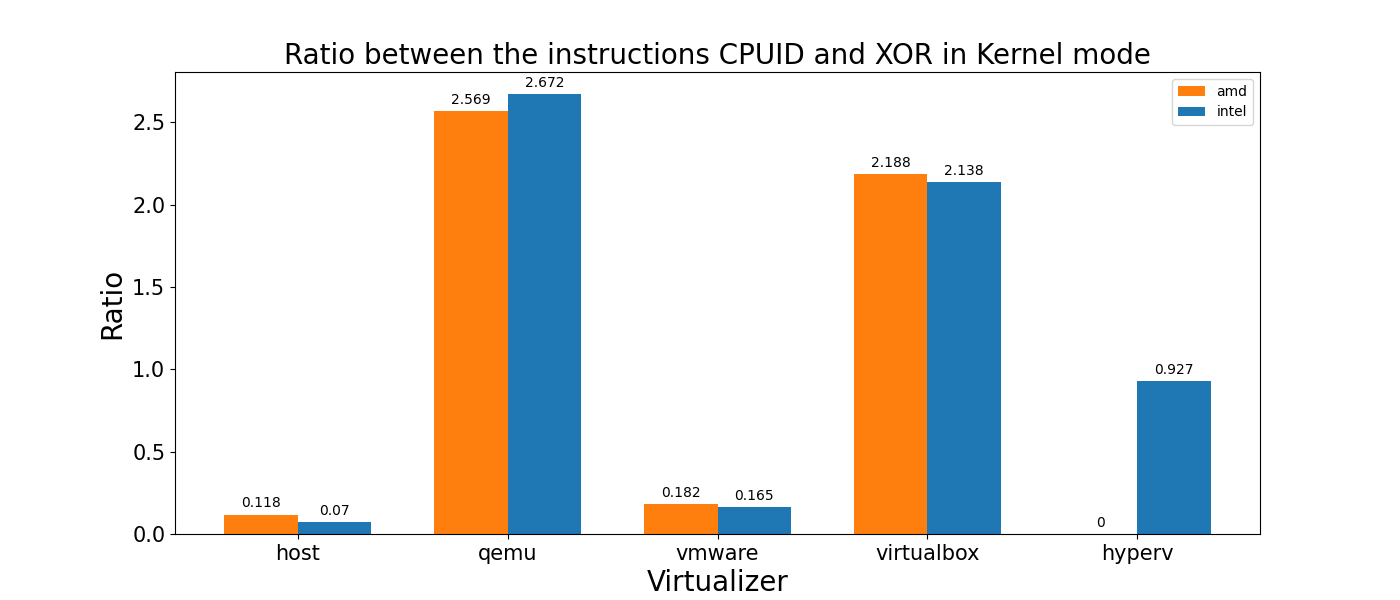
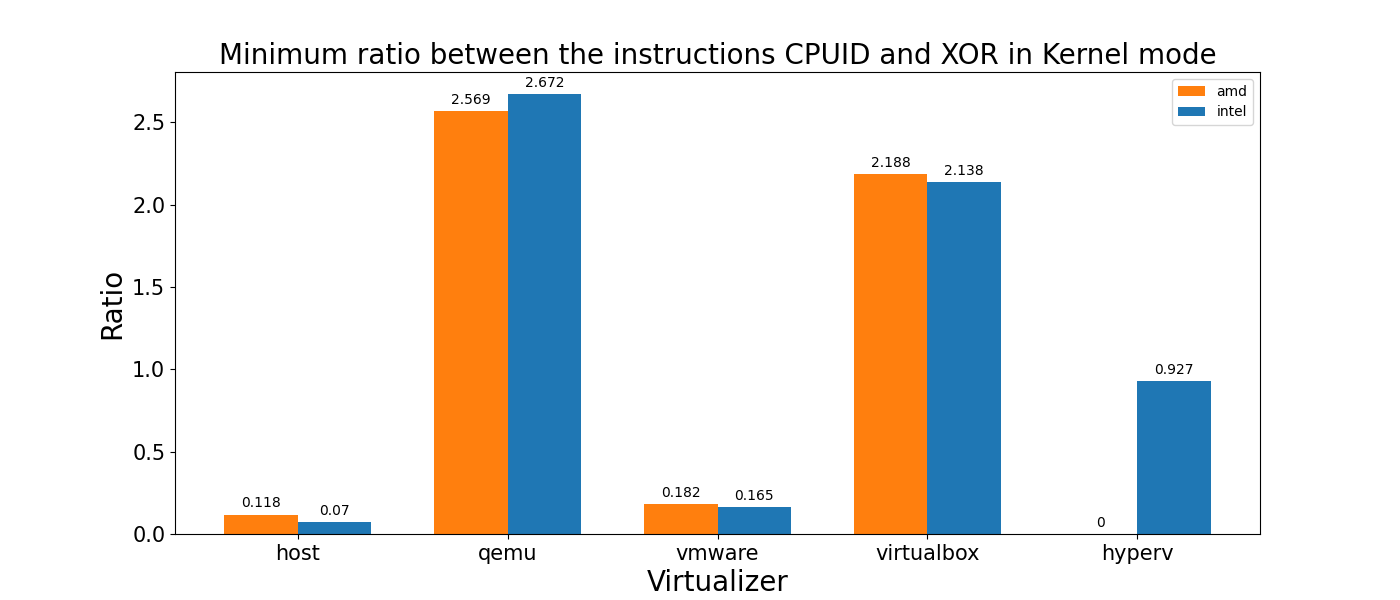
hypervisor detection done

Changed region(s): [[0.1536, 0.06, 0.86, 0.12]]

diff --git a/code/hypervisor_detection.py b/code/hypervisor_detection.py
@@ -1,0 +1,45 @@
+import os
+import argparse
+import pickle
+import uuid
+
+from utils import get_data_from_file
+
+
+AMBIENTS = ["host", "qemu", "vmware", "virtualbox", "hyperv"]
+
+
+def main(instruction, mode, cpu, number_runs):
+   mins = {}
+
+   if mode == "kernel":
+      os.system(f"cd {mode}; bash compile_for_instruction.sh {instruction} {number_runs}")
+      xor_values, instruction_values = get_data_from_file('/proc/cicles_counter', 'kernel')
+   elif mode == "user":
+      file = uuid.uuid4()
+      os.system(f"cd {mode}; make &> /dev/null; ./main {number_runs} > {file}.txt")
+      xor_values, instruction_values = get_data_from_file(f"{mode}/{file}", 'user')
+      os.system(f"rm {mode}/{file}.txt")
+
+   with open(f"mins/{instruction}_{mode}", 'rb') as file:
+      mins = pickle.loads(file.read())
+
+   min_measured = min(instruction_values)/min(xor_values)
+
+   result = list(mins[cpu].keys())[0]
+   for ambient in mins[cpu]:
+      if min_measured >= mins[cpu][ambient] and (min_measured - mins[cpu][ambient]) < (min_measured - mins[cpu][result]):
+         result = ambient
+
+   print(f"Ambient detected using the data from the CPU {cpu} with the instruction {instruction.upper()} in {mode} mode: <{result}>")
+
+
+if __name__ == '__main__':
+   parser = argparse.ArgumentParser()
+   parser.add_argument('--instruction', default="cpuid", type=str, help=f"Instruction: one of [cpuid, rtc, lgdt]")
+   parser.add_argument('--mode', default="kernel", type=str, help="Mode: one of [kernel, user]")
+   parser.add_argument('--cpu', default="amd", type=str, help="Use the data obtained from the given CPU brand: one of [amd, intel]")
+   parser.add_argument('--runs', default=10000, type=int, help="Number of times to run the instructions")
+   args = parser.parse_args()
+
+   main(args.instruction, args.mode, args.cpu, args.runs)

diff --git a/code/user/main.c b/code/user/main.c
@@ -5,7 +5,7 @@
 const int COUNTER = 100;
 
 int main(int argc, char **argv) {
-	int number_times = 1000000;
+	int number_times = 10000;
 	unsigned long t0, t1, t2;
 
 	if (argc == 2) {

diff --git a/code/kernel/to_run.h b/code/kernel/to_run.h
@@ -1,1 +1,1 @@
-#define RUN_LGDT 1
+#define RUN_CPUID 1
